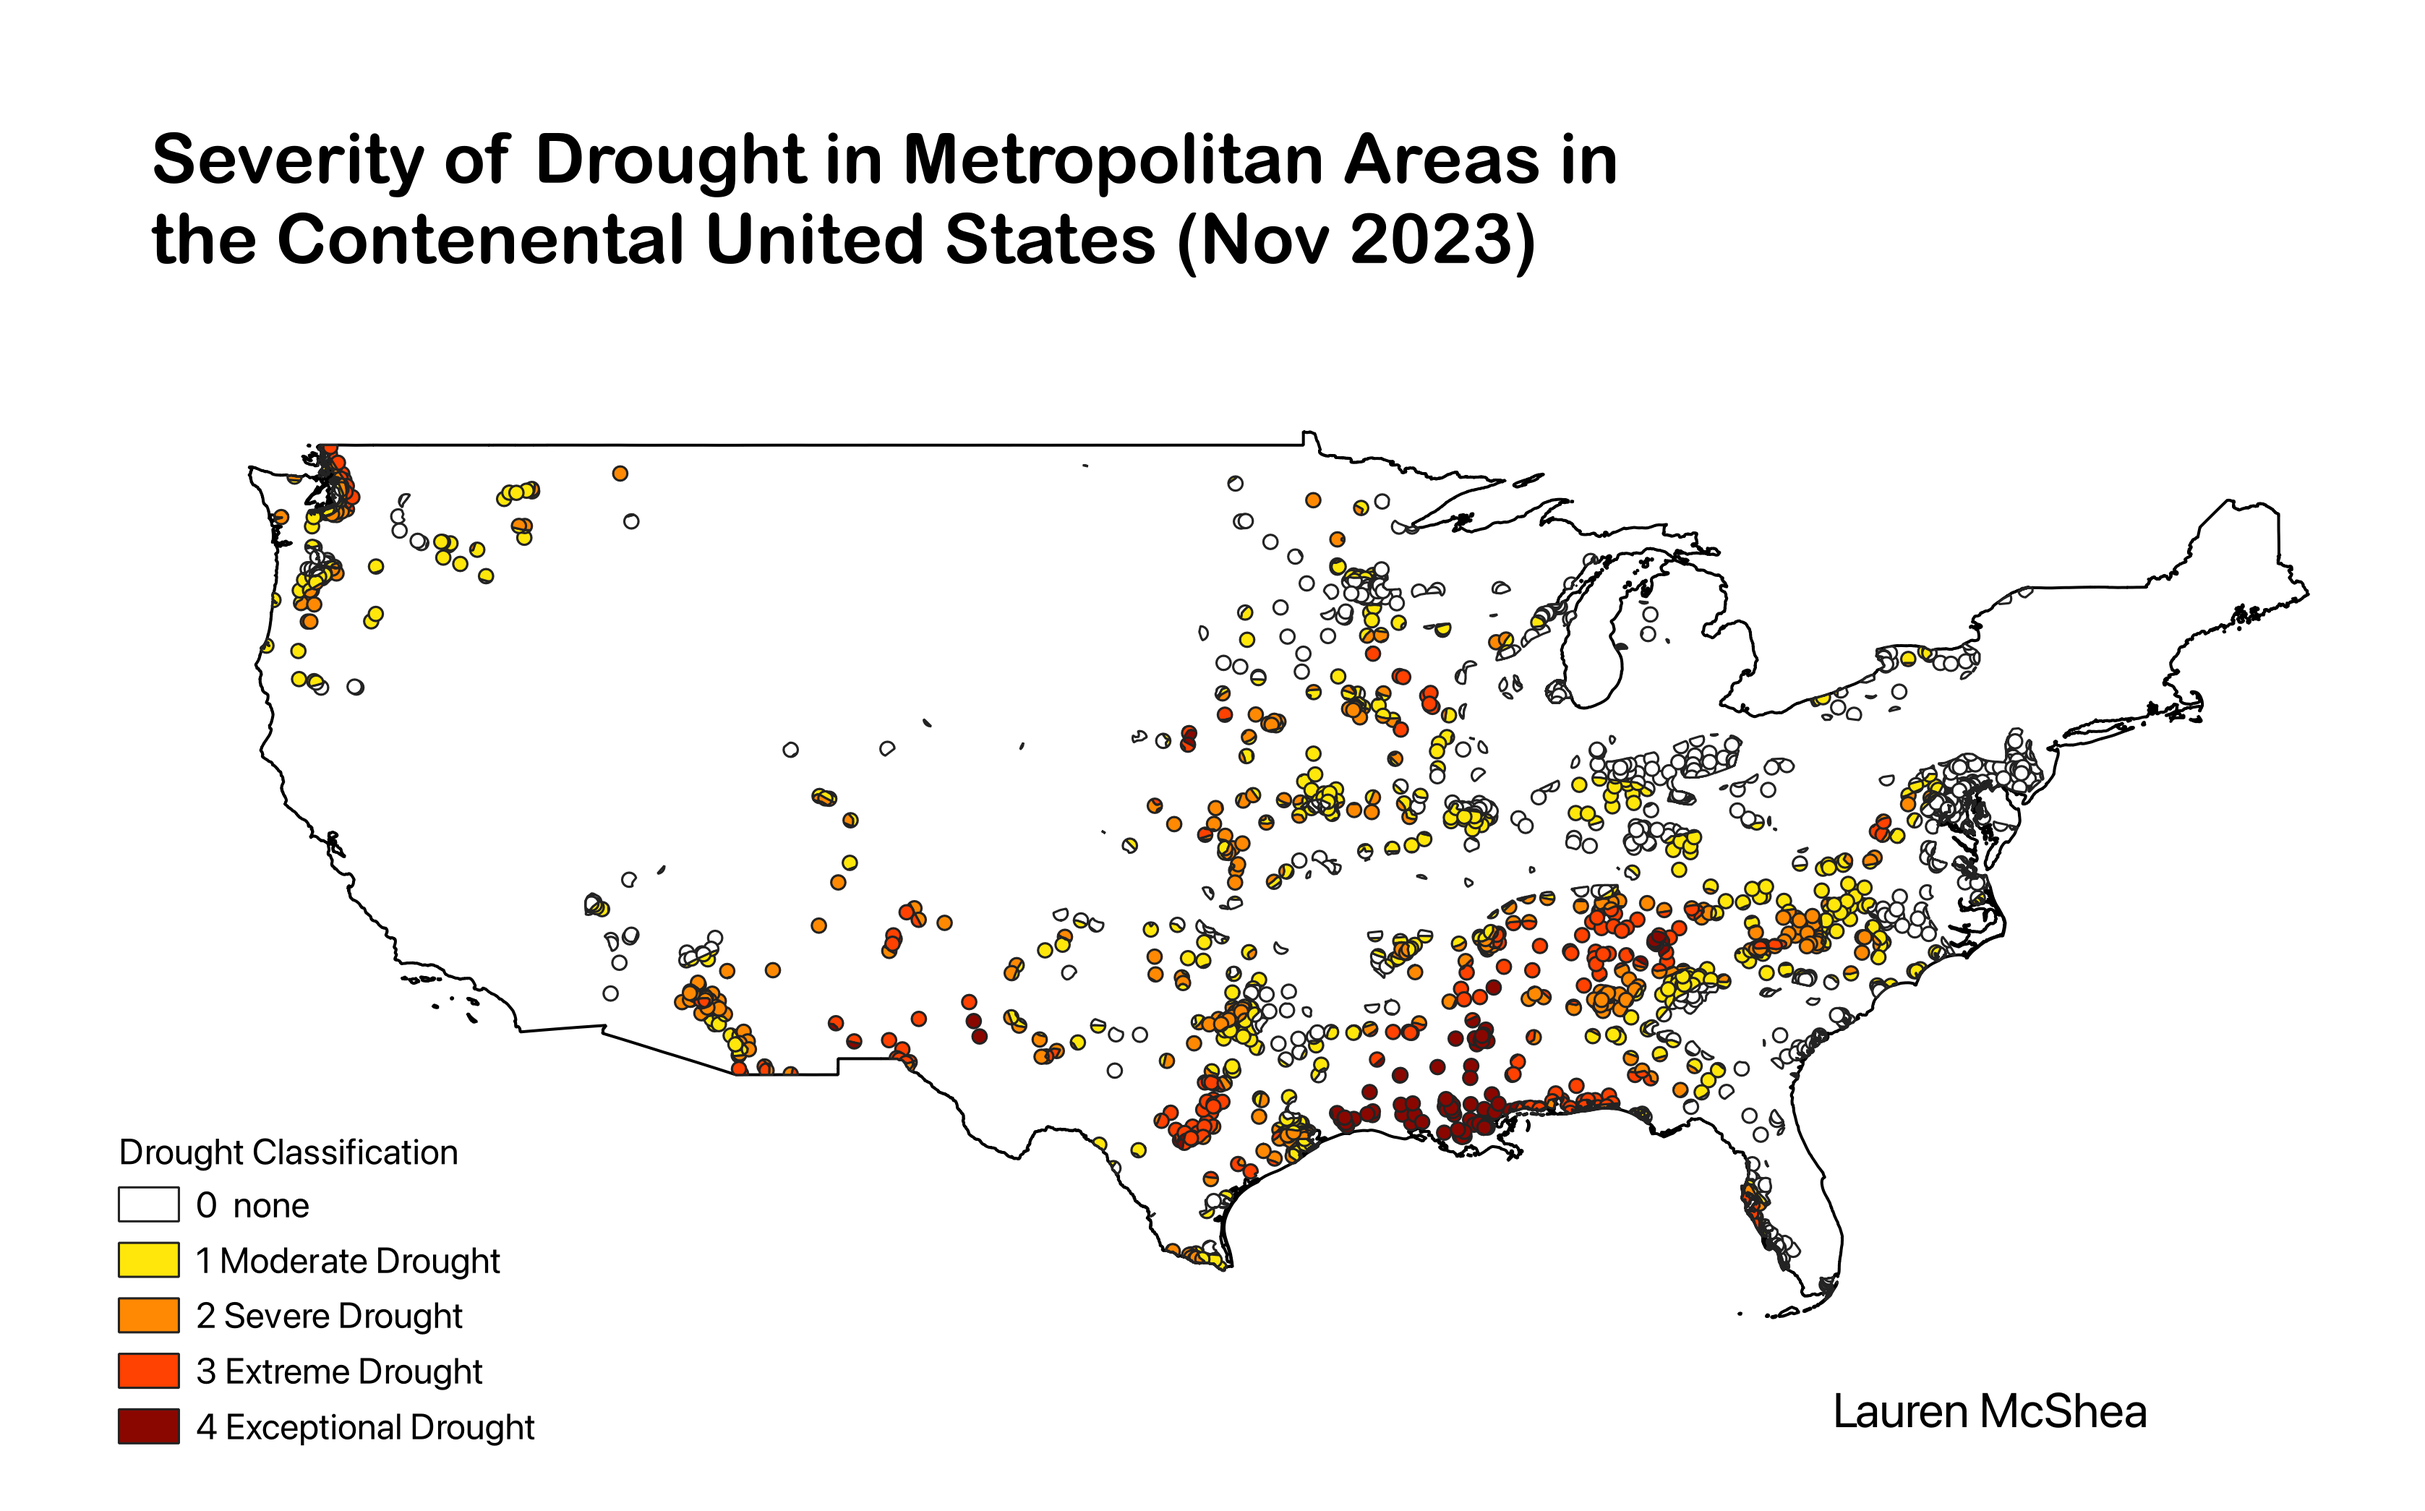
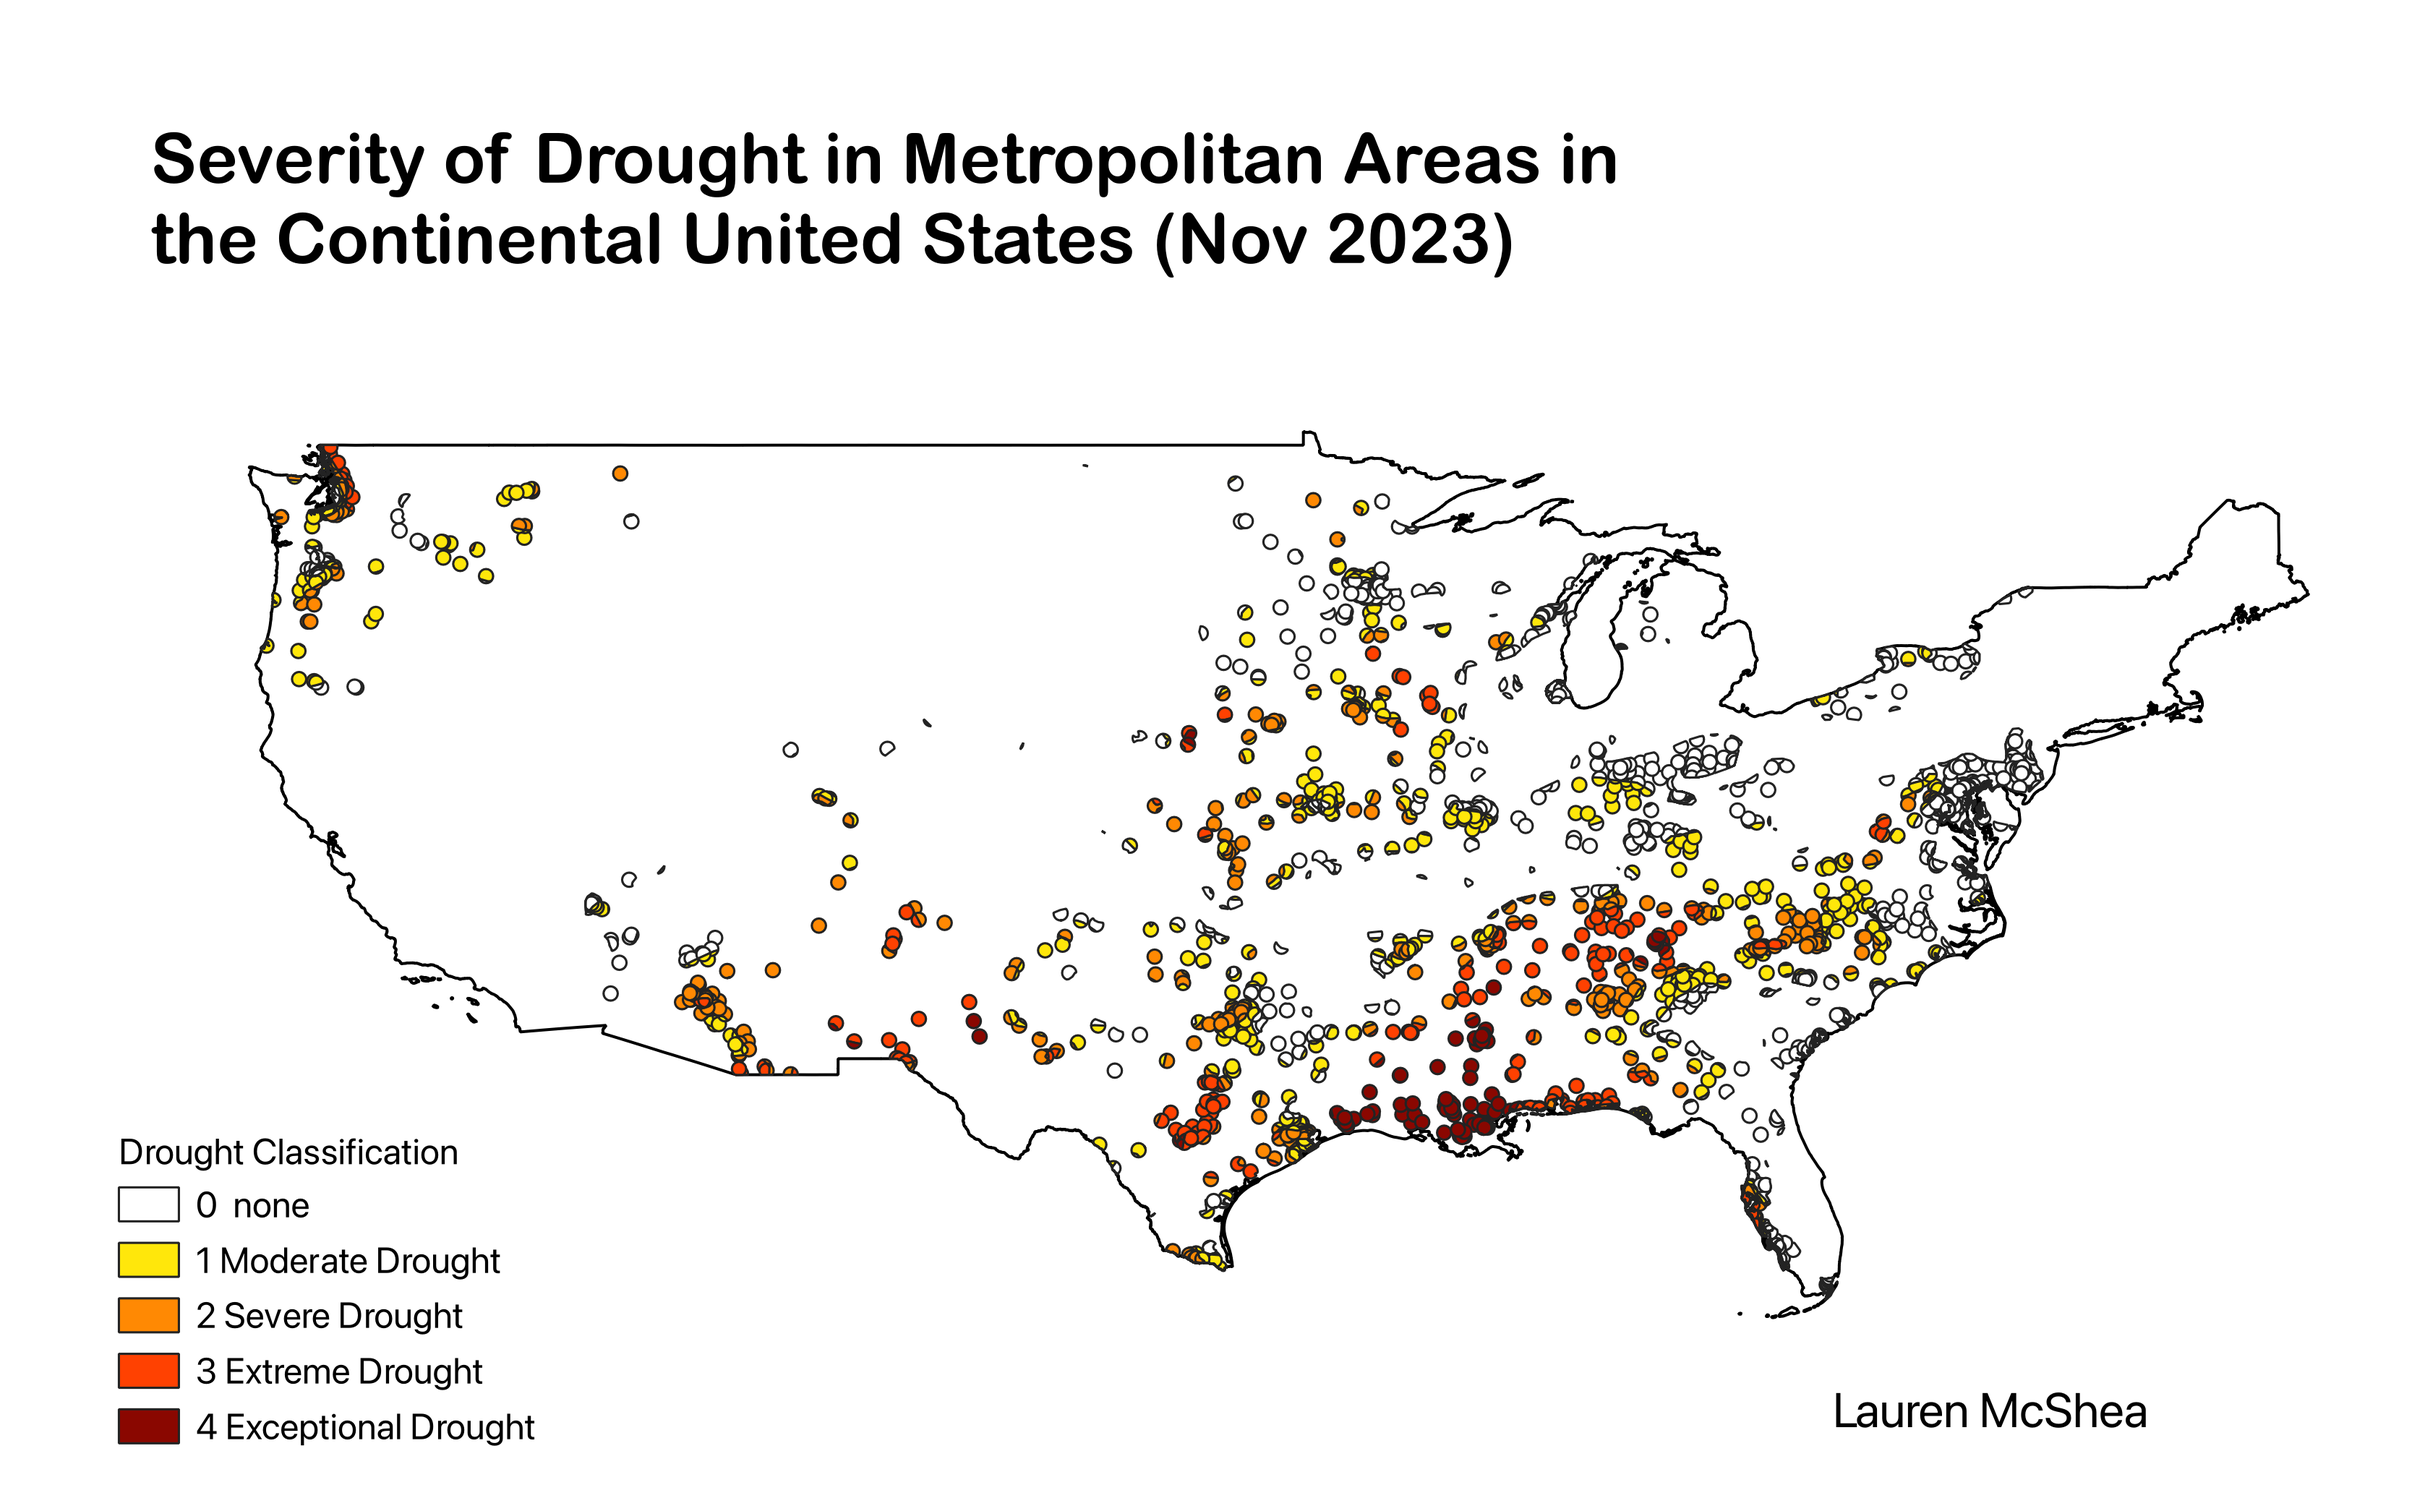
hw 8

Changed region(s): [[0.186, 0.1244, 0.6512, 0.1866]]

diff --git a/hw8/hw8.html b/hw8/hw8.html
@@ -9,7 +9,7 @@
 <h1>Homework 8: Geoprocessing Analysis </h1>
 <h2>Lauren McShea</h2>
 <h3>My map depicts the level of drought currently experienced by major metropolian areas in the continental United States. This map was created be using the geoprossesing tool, buffer to create a layer of metropolitan areas surrounding major US cities. This layer was then overlayed with current US Drought Monitor data and the geoprossesing tool, intersect, was used to respresent the overlap in datasets. The level of drought severity in each area is indicated by color. </h3>
-<a href="./Homework 8.png"><h2>map name</h2></a>
+<a href="./Homework 8.png"><h2>Severity of Drought in Metropolitan Area in the Continental United States</h2></a>
     <img src="./Homework 8.png" alt="map" width='500px'>
     <h3> </h3>
 <h2>Data used for this project:</h2>
